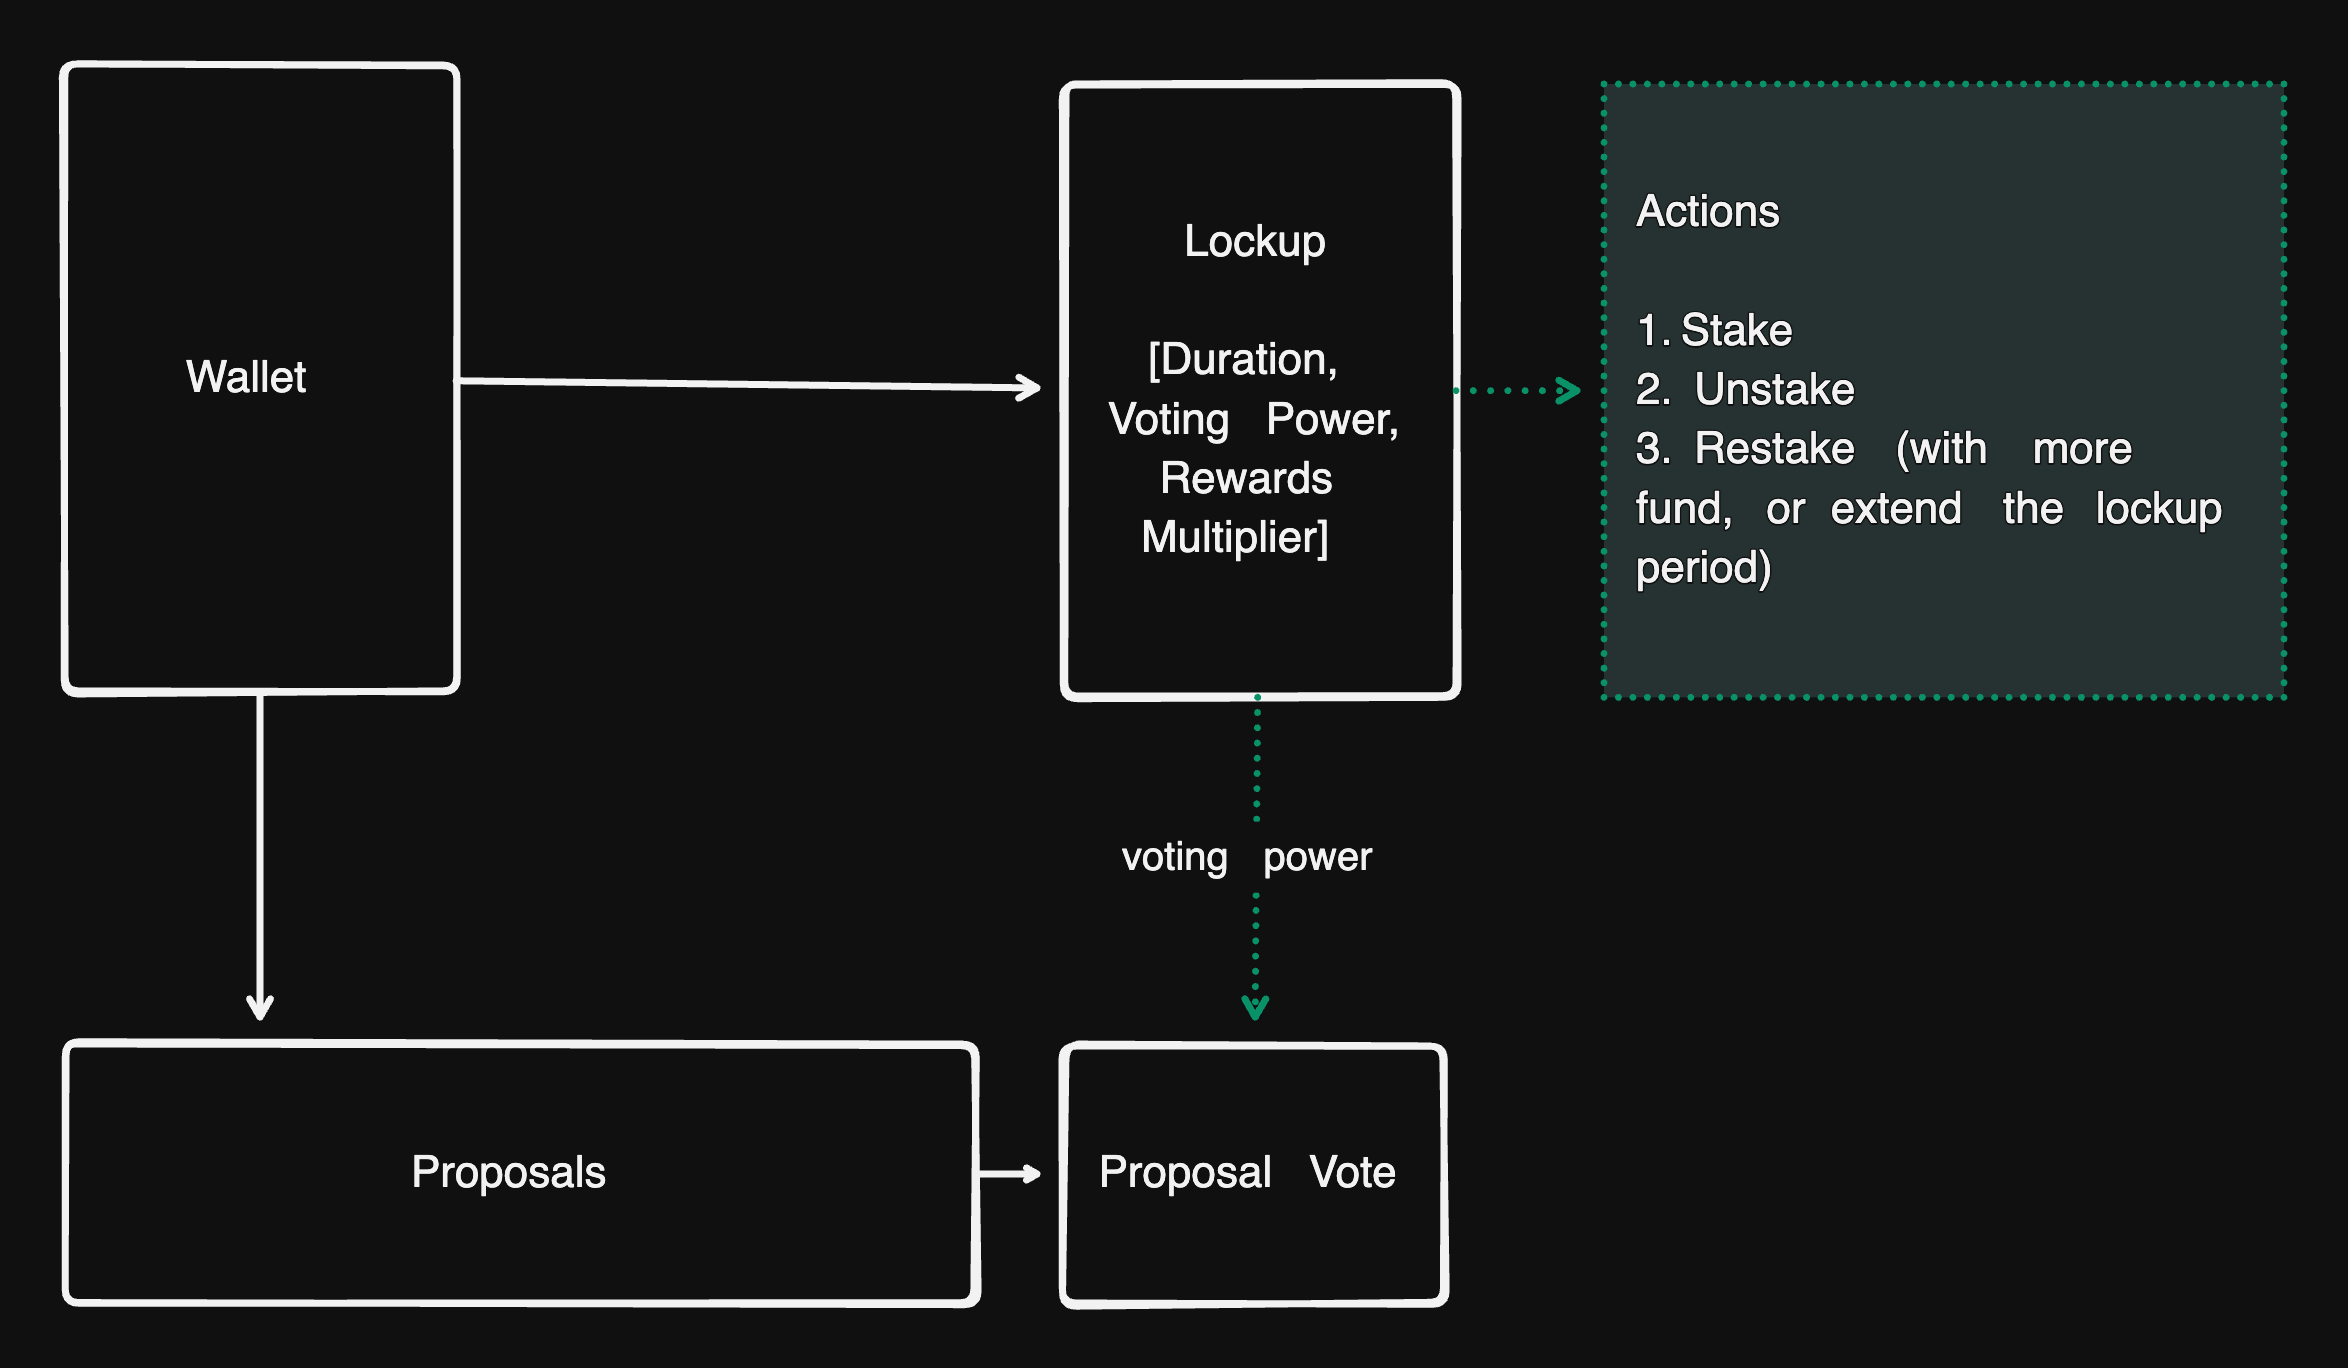
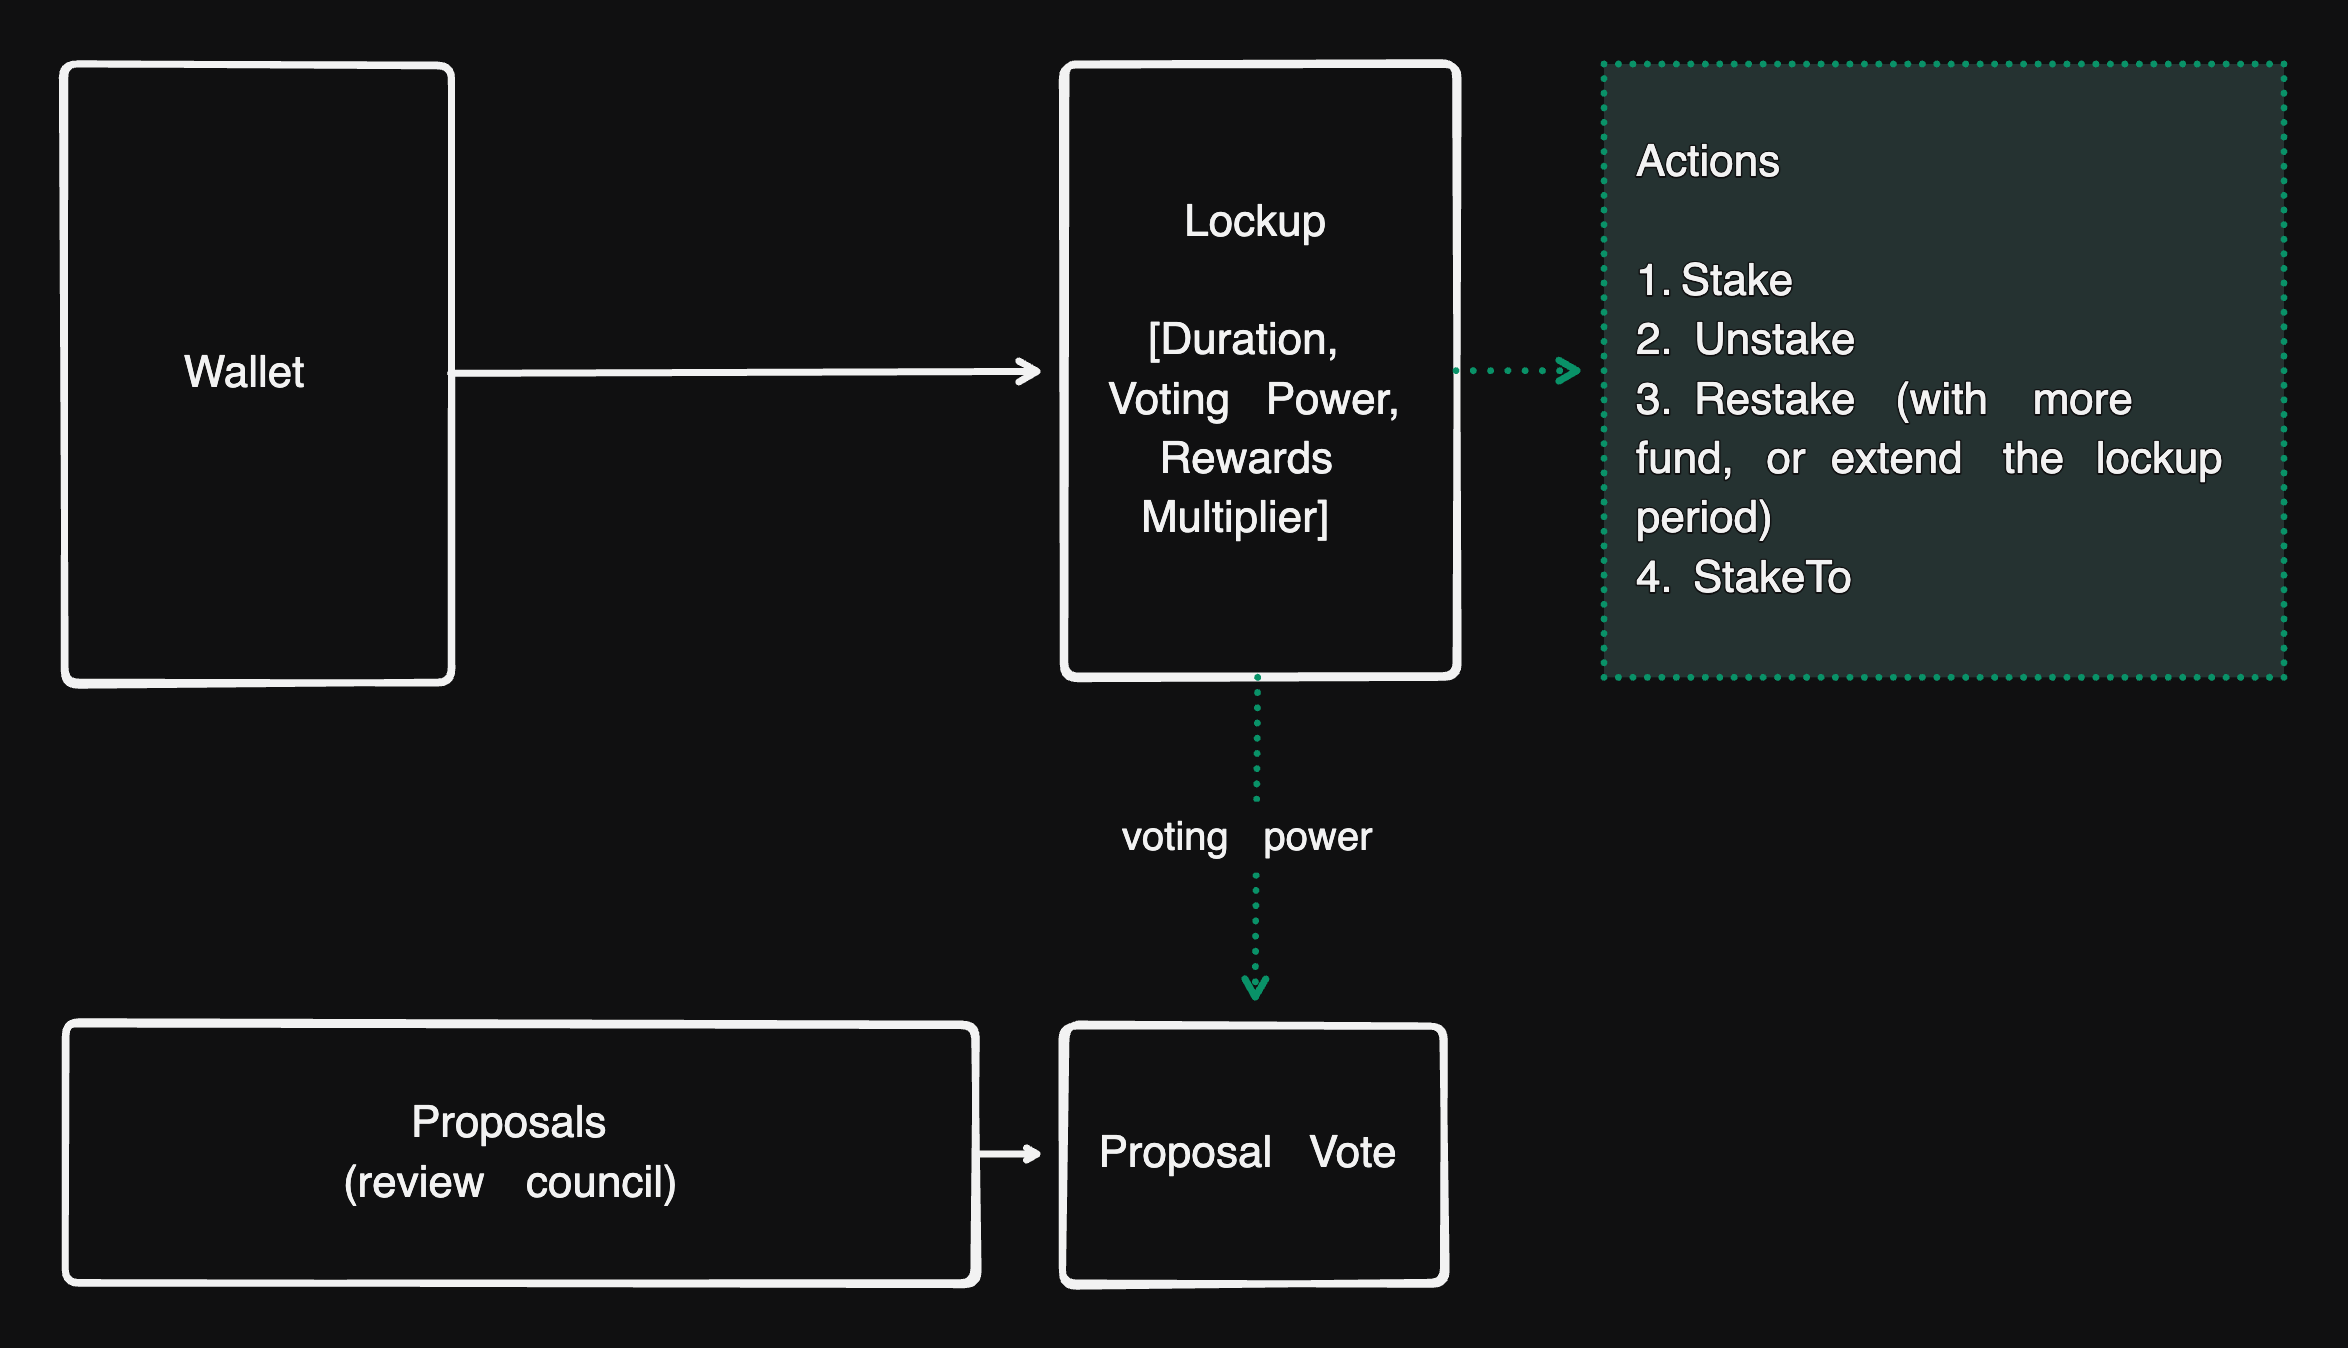
Add readme

diff --git a/tests/index.test.ts b/tests/index.test.ts
@@ -279,6 +279,7 @@ describe("stake", async () => {
       assert(lockup);
       assert(lockup.amount.eq(new BN(400 * 1e6)));
       assert(lockup.endTs.eq(endTs));
+      assert(lockup.targetRewardsBp !== 0);
       assert(lockup.owner.equals(signers.user1.publicKey));
       assert(!lockup.startTs.eqn(0));
     });
@@ -330,6 +331,7 @@ describe("stake", async () => {
       assert(lockup.amount.eq(new BN(400 * 1e6)));
       assert(lockup.endTs.eq(endTs));
       assert(lockup.owner.equals(signers.user2.publicKey));
+      assert(lockup.targetRewardsBp === 0);
       assert(!lockup.startTs.eqn(0));
     });
 

diff --git a/programs/vetoken/src/lib.rs b/programs/vetoken/src/lib.rs
@@ -11,12 +11,14 @@ anchor_lang::declare_id!("veTbq5fF2HWYpgmkwjGKTYLVpY6miWYYmakML7R7LRf");
 pub mod vetoken {
     use super::*;
 
+    // Initialize a new namespace. The namespace is created by the deployer + token_mint as the seeds
     pub fn init_namespace<'info>(
         ctx: Context<'_, '_, '_, 'info, InitNamespace<'info>>,
     ) -> Result<()> {
         ins_v1::init_namespace::handle(ctx)
     }
 
+    // Update the namespace's config, gated by the namespace's security council
     pub fn update_namespace<'info>(
         ctx: Context<'_, '_, '_, 'info, UpdateNamespace<'info>>,
         args: UpdateNamespaceArgs,
@@ -24,6 +26,9 @@ pub mod vetoken {
         ins_v1::update_namespace::handle(ctx, args)
     }
 
+    // Stake will upsert a lockup account and lock the tokens for the
+    // lockup duration to get the voting power and rewards multiplier
+    // data set.
     pub fn stake<'info>(
         ctx: Context<'_, '_, '_, 'info, Stake<'info>>,
         args: StakeArgs,
@@ -31,6 +36,12 @@ pub mod vetoken {
         ins_v1::stake::handle(ctx, args)
     }
 
+    // StakeTo will allow security council to deposit and lock the tokens
+    // for a user. It's identical to Stake but security council can also
+    // disable the rewards for that user.
+    //
+    // Note that, if the user already has a lockup account, this will failed
+    // because of the anchor 'init' macro check.
     pub fn stake_to<'info>(
         ctx: Context<'_, '_, '_, 'info, StakeTo<'info>>,
         args: StakeToArgs,
@@ -38,10 +49,14 @@ pub mod vetoken {
         ins_v1::stake_to::handle(ctx, args)
     }
 
+    // Unstake will remove the lockup account and return the tokens back
+    // to the owner.
+    // Users can only unstake if the lockup period has ended.
     pub fn unstake<'info>(ctx: Context<'_, '_, '_, 'info, Unstake<'info>>) -> Result<()> {
         ins_v1::unstake::handle(ctx)
     }
 
+    // Review council can create a proposal.
     pub fn init_proposal<'info>(
         ctx: Context<'_, '_, '_, 'info, InitProposal<'info>>,
         args: InitProposalArgs,
@@ -49,6 +64,7 @@ pub mod vetoken {
         ins_v1::init_proposal::handle(ctx, args)
     }
 
+    // Review council can update a proposal.
     pub fn update_proposal<'info>(
         ctx: Context<'_, '_, '_, 'info, UpdateProposal<'info>>,
         args: UpdateProposalArgs,
@@ -56,6 +72,7 @@ pub mod vetoken {
         ins_v1::update_proposal::handle(ctx, args)
     }
 
+    // Users with voting power greater than a threshold can vote on a proposal.
     pub fn vote<'info>(ctx: Context<'_, '_, '_, 'info, Vote<'info>>, args: VoteArgs) -> Result<()> {
         ins_v1::vote::handle(ctx, args)
     }

diff --git a/programs/vetoken/src/ins_v1/stake.rs b/programs/vetoken/src/ins_v1/stake.rs
@@ -78,11 +78,7 @@ pub fn handle<'info>(ctx: Context<'_, '_, '_, 'info, Stake<'info>>, args: StakeA
         ),
         args.amount,
         ctx.accounts.token_mint.decimals,
-    )?;
-
-    lockup.ns = ns.key();
-    lockup.amount += args.amount;
-    lockup.owner = ctx.accounts.owner.key();
+    )?; // Transfer the staked tokens to the lockup account
 
     // only the first time staking can set the default values for target rewards and voting power
     // this is to prevent the staker from overriding what's set by stake_to by security council, if any
@@ -96,6 +92,10 @@ pub fn handle<'info>(ctx: Context<'_, '_, '_, 'info, Stake<'info>>, args: StakeA
         lockup.start_ts = ns.now();
         lockup.end_ts = args.end_ts;
     }
+
+    lockup.ns = ns.key();
+    lockup.amount += args.amount;
+    lockup.owner = ctx.accounts.owner.key();
 
     ns.lockup_amount += args.amount;
 

diff --git a/README.md b/README.md
@@ -1,6 +1,6 @@
 # VeToken
 
-VeToken is an open source vote escrow based simplified solana staking program for veNFT.
+VeToken is an open source vote escrow based simplified solana staking program for any Tokenk or Token22.
 
 | Network | Program Address |
 | ----------- | ----------- |
@@ -9,13 +9,32 @@ VeToken is an open source vote escrow based simplified solana staking program fo
 
 
 # Architecture
+
 <img src="./docs/arch.png" width="600">
+
+The endpoints' detailed explanation can be found at [lib.rs](./programs/vetoken/src/lib.rs).
 
 # Features
 
 - Simplified Lockup structure with full vote escrow and voting power decay support.
 - Proposals and Proposal votes are based on the voting power of the lockup.
+- Stake and StakeTo with different rewards settings
+- Security Council and Review Council governance model design
 - Full permissionless composability.
+
+# Development
+
+```bash
+# Test build and running the bankrun tests
+npm i
+anchor build -- --features anchor-test && npm run test -- run
+
+# Production build
+anchor build
+
+# Update IDL (if there's any IDL change)
+anchor run update_idl
+```
 
 # IDL
 - [IDL - vetoken.json](./src/idl/vetoken.json)
